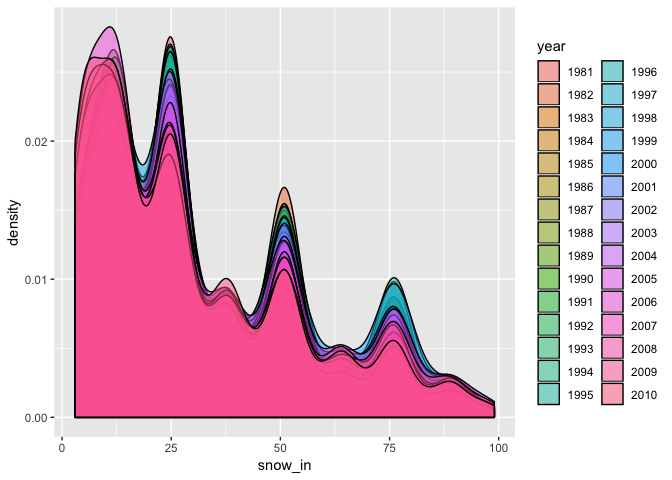
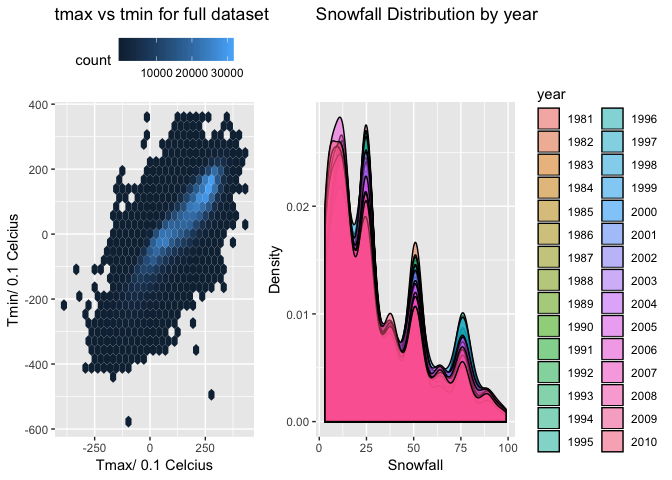
make two plot together

diff --git a/p8105_hw3-hn2339.md b/p8105_hw3-hn2339.md
@@ -3,25 +3,6 @@ p8105\_hw2\_hn2339
 Haowei Ni
 2018/10/7
 
-``` r
-library(tidyverse)
-```
-
-    ## ─ Attaching packages ──────────────────────── tidyverse 1.2.1 ─
-
-    ## ✔ ggplot2 3.0.0     ✔ purrr   0.2.5
-    ## ✔ tibble  1.4.2     ✔ dplyr   0.7.6
-    ## ✔ tidyr   0.8.1     ✔ stringr 1.3.1
-    ## ✔ readr   1.1.1     ✔ forcats 0.3.0
-
-    ## ─ Conflicts ────────────────────────── tidyverse_conflicts() ─
-    ## ✖ dplyr::filter() masks stats::filter()
-    ## ✖ dplyr::lag()    masks stats::lag()
-
-``` r
-library(dplyr)
-```
-
 Question 1
 ----------
 
@@ -71,7 +52,7 @@ library(p8105.datasets)
       geom_line()
 ```
 
-![](p8105_hw3-hn2339_files/figure-markdown_github/unnamed-chunk-3-1.png) The spaghetti shows that most of the states have number of observations between 0 and 100. Two outliers were also shown in state Florida between year 2006-2008 and 2010.Through the years, there were no big changes among most of the states because the trend line is smooth.
+![](p8105_hw3-hn2339_files/figure-markdown_github/unnamed-chunk-2-1.png) The spaghetti shows that most of the states have number of observations between 0 and 100. Two outliers were also shown in state Florida between year 2006-2008 and 2010.Through the years, there were no big changes among most of the states because the trend line is smooth.
 
 ``` r
 library(p8105.datasets)
@@ -127,7 +108,7 @@ library(p8105.datasets)
 
     ## Warning: Removed 21 rows containing non-finite values (stat_ydensity).
 
-![](p8105_hw3-hn2339_files/figure-markdown_github/unnamed-chunk-5-1.png) This is a five panel violin plot. The plot is separated by different responses from Excellent to Poor. From the graph, we can see that the average proportion of "poor" is the lowest, which is below 10. The proportion of "Very good" is the highest. There proportion of each responses were maintained in a relative stable level.
+![](p8105_hw3-hn2339_files/figure-markdown_github/unnamed-chunk-4-1.png) This is a five panel violin plot. The plot is separated by different responses from Excellent to Poor. From the graph, we can see that the average proportion of "poor" is the lowest, which is below 10. The proportion of "Very good" is the highest. There proportion of each responses were maintained in a relative stable level.
 
 Question 2
 ----------
@@ -156,7 +137,7 @@ instacart %>%
       )
 ```
 
-![](p8105_hw3-hn2339_files/figure-markdown_github/unnamed-chunk-7-1.png) This is a scatterplot with Aisle id on the x axe and Number of Orders on the y axe. Most of the Aisle ID have order number between 0 ~ 25000. There are several outliers. And 2 of them reached 150000.
+![](p8105_hw3-hn2339_files/figure-markdown_github/unnamed-chunk-6-1.png) This is a scatterplot with Aisle id on the x axe and Number of Orders on the y axe. Most of the Aisle ID have order number between 0 ~ 25000. There are several outliers. And 2 of them reached 150000.
 
 ``` r
 instacart %>%
@@ -209,6 +190,7 @@ The most common observed value in snowfall is 0 . It is because that most of tim
 ``` r
 NY_NOAA = ny_noaa %>%
 group_by(id, month) %>%
+    # filter and only select Jan and July 
     filter(month == "01" | month == "07" ) %>%
     mutate(tmax_F = as.numeric(tmax_F, na.rm =TRUE)) %>%
     summarize(mean_temp = mean(tmax_F)) %>%
@@ -216,31 +198,40 @@ group_by(id, month) %>%
     #make a histogram 
     ggplot(NY_NOAA, aes(x = id, y = mean_temp)) +
       geom_point() +
+    # separate the plot into two by months 
       facet_grid(~month) +
       viridis::scale_fill_viridis(discrete = TRUE)
 ```
 
-![](p8105_hw3-hn2339_files/figure-markdown_github/unnamed-chunk-11-1.png) There is no outliers in the January and July graph. But since the station has very long name, the xlab is hard to be interpretable.
+![](p8105_hw3-hn2339_files/figure-markdown_github/unnamed-chunk-10-1.png) There is no outliers in the January and July graph. But since the station has very long name, the xlab is hard to be interpretable.
 
 ``` r
-  ny_noaa %>%
+  NY_noaa = ny_noaa %>%
   na.omit(tmax_F) %>% 
   na.omit(tmin_F) %>%
   mutate(tmax_F = as.numeric(tmax_F, na.rm =TRUE)) %>% 
-  mutate(tmin_F = as.numeric(tmin_F, na.rm =TRUE)) %>% 
-  ggplot(aes(x = tmax_F, y = tmin_F)) +
+  mutate(tmin_F = as.numeric(tmin_F, na.rm =TRUE)) 
+  temp = ggplot(NY_noaa, aes(x = tmax_F, y = tmin_F)) +
   geom_hex() +
   ggtitle("tmax vs tmin for full dataset") +
-  theme(legend.position = "top")
+  theme(legend.position = "top") + 
+  labs(x = "Tmax/ 0.1 Celcius",
+       y = "Tmin/ 0.1 Celcius")
 ```
-
-![](p8105_hw3-hn2339_files/figure-markdown_github/unnamed-chunk-12-1.png)
 
 ``` r
 NY_plot = ny_noaa %>% 
   filter(snow_in > 0, snow_in < 100) 
-  ggplot(NY_plot, aes(x = snow_in, fill = year)) + 
-  geom_density(alpha = 0.5)
+  snow = ggplot(NY_plot, aes(x = snow_in, fill = year)) + 
+  geom_density(alpha = 0.5) +
+  ggtitle("Snowfall Distribution by year") + 
+    labs(x = "Snowfall",
+         y = "Density")
+```
+
+``` r
+# use patchwork to combine two plots together into a two panel 
+temp + snow 
 ```
 
 ![](p8105_hw3-hn2339_files/figure-markdown_github/unnamed-chunk-13-1.png)
